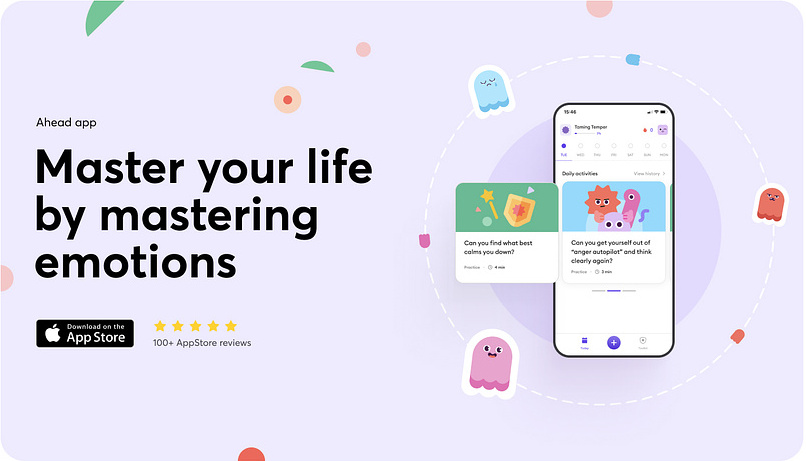
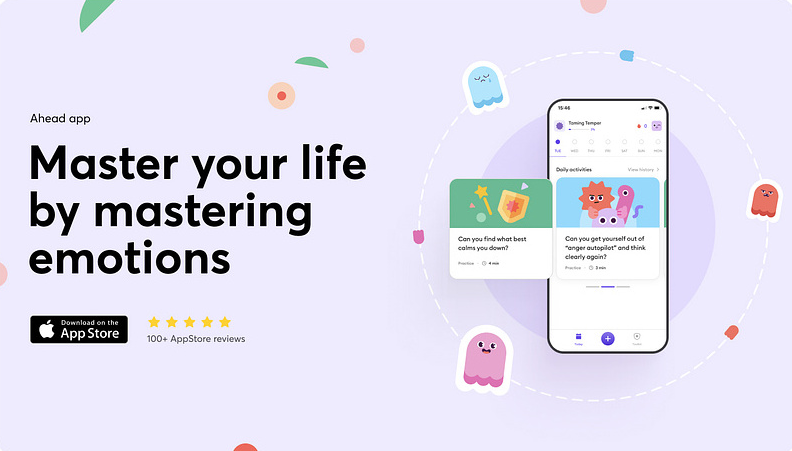
app

diff --git a/density-app/src/components/Ahead.jsx b/density-app/src/components/Ahead.jsx
@@ -1,0 +1,31 @@
+import React from "react";
+import poster from "../Assets/poster.jpg";
+
+const Ahead = () => {
+  return (
+    <section className="bg-gray-100 py-12" style={{paddingLeft:"10%",paddingRight:"10%"}}>
+      <div className="container mx-auto" style={{backgroundColor:"rgb(350, 245, 240)",borderRadius:"15px"}}>
+        <p className="text-gray-600 mb-4" style={{paddingLeft:"10px"}}>Built out of frustration</p>
+        <h2 className="text-3xl font-bold text-gray-800 mb-6" style={{paddingLeft:"10px"}}>Meet the Ahead App</h2>
+        <div className="grid grid-cols-1 md:grid-cols-2 gap-0"> {/* Adjust gap to 0 */}
+          <div className="md:col-span-1">
+            <img
+              src={poster} style={{width:"100%",borderRadius:"30px"}} // Replace with actual image path
+              alt="Ahead App"
+            />
+          </div>
+          <div className="md:col-span-1 flex flex-col">
+            <p className="text-gray-600 mb-4">
+              A personalized pocket coach that provides bite-sized, science-driven tools to boost emotional intelligence.
+            </p>
+            <p className="text-gray-600">
+              Think of it as a pocket cheerleader towards a better, more fulfilling life.
+            </p>
+          </div>
+        </div>
+      </div>
+    </section>
+  );
+};
+
+export default Ahead;

diff --git a/density-app/src/components/EmotionalIntelligence.jsx b/density-app/src/components/EmotionalIntelligence.jsx
@@ -1,0 +1,26 @@
+import React from "react";
+import "./EmotionalIntelligence.css"; // Import your custom styles
+
+const EmotionalIntelligence = () => {
+  return (
+    <section className="ei-container">
+      <div className="ei-box ei-heading-box">
+        <h2 className="ei-heading">EQ beats IQ</h2>
+      </div>
+      <div className="ei-box ei-content-box">
+        <p className="ei-content">
+          People with high emotional intelligence (EQ) live more fulfilled lives.
+          They tend to be happier and have healthier relationships.
+        </p>
+      </div>
+      <div className="ei-box ei-content-box">
+        <p className="ei-content">
+          They are more successful in their pursuits and make for inspiring leaders.
+          According to science, they earn $29k a year.
+        </p>
+      </div>
+    </section>
+  );
+};
+
+export default EmotionalIntelligence;

diff --git a/density-app/src/components/EmotionalIntelligence.css b/density-app/src/components/EmotionalIntelligence.css
@@ -1,0 +1,46 @@
+/* Emotional Intelligence Container */
+.ei-container {
+    display: grid;
+    grid-template-columns: 1fr 1fr 1fr;
+    gap: 20px;
+    background-color: #f4f4f4;
+    padding: 2rem 10%;
+    border-radius: 10px;
+  }
+  
+  /* Box Style */
+  .ei-box {
+    padding: 1.5rem;
+    background-color: white;
+    border-radius: 10px; /* Add border radius */
+    transition: background-color 0.3s;
+  }
+  
+  .ei-box:hover {
+    background-color: #eaeaea;
+  }
+  
+  /* Heading Box */
+  .ei-heading-box {
+    display: flex;
+    align-items: flex-start;
+  }
+  
+  .ei-heading {
+    font-size: 2rem;
+    font-weight: bold;
+    margin: 0;
+  }
+  
+  /* Content Box */
+  .ei-content-box {
+    display: flex;
+    flex-direction: column;
+  }
+  
+  .ei-content {
+    color: #333;
+    line-height: 1.5;
+    margin: 0;
+  }
+  

diff --git a/density-app/src/App.js b/density-app/src/App.js
@@ -6,12 +6,16 @@ import WorkWithUs from './components/WorkWithUs';
 import PrivacyStatement from './components/PrivacyStatement';
 import ProgressBars from './components/ProgressBars';
 import Banner from './components/Banner';
+import EmotionalIntelligence from './components/EmotionalIntelligence';
+import Ahead from './components/Ahead';
 
 function App() {
   return (
     <div>
       <Navbar />
       <Banner/>
+      <EmotionalIntelligence/>
+      <Ahead/>
       <ProgressBars/>
       <PrivacyStatement/>
       <WorkWithUs/>

diff --git a/density-app/src/components/Banner.jsx b/density-app/src/components/Banner.jsx
@@ -2,7 +2,7 @@ import React from 'react';
 import banner from "../Assets/banner.png"
 const Banner = () => {
   return (
-    <div className="bg-gray-100 py-12 px-6 md:px-12 lg:px-20">
+    <div className="bg-gray-100 px-6 md:px-12 lg:px-20">
       <img style={{width:"100%",borderRadius:"50px", filter:"drop-shadow(5px,5px,10px,#555)"}} src={banner} alt="" />
     </div>
   );
